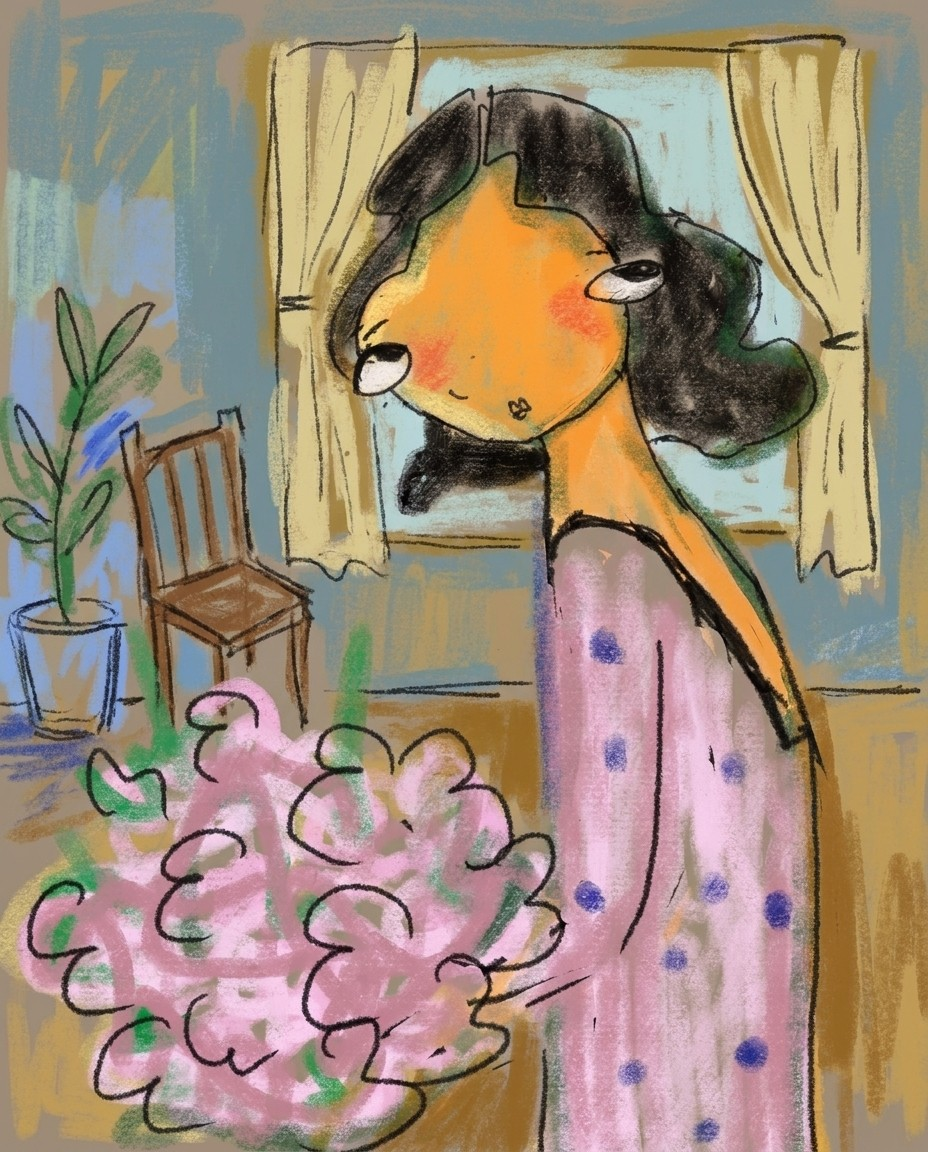
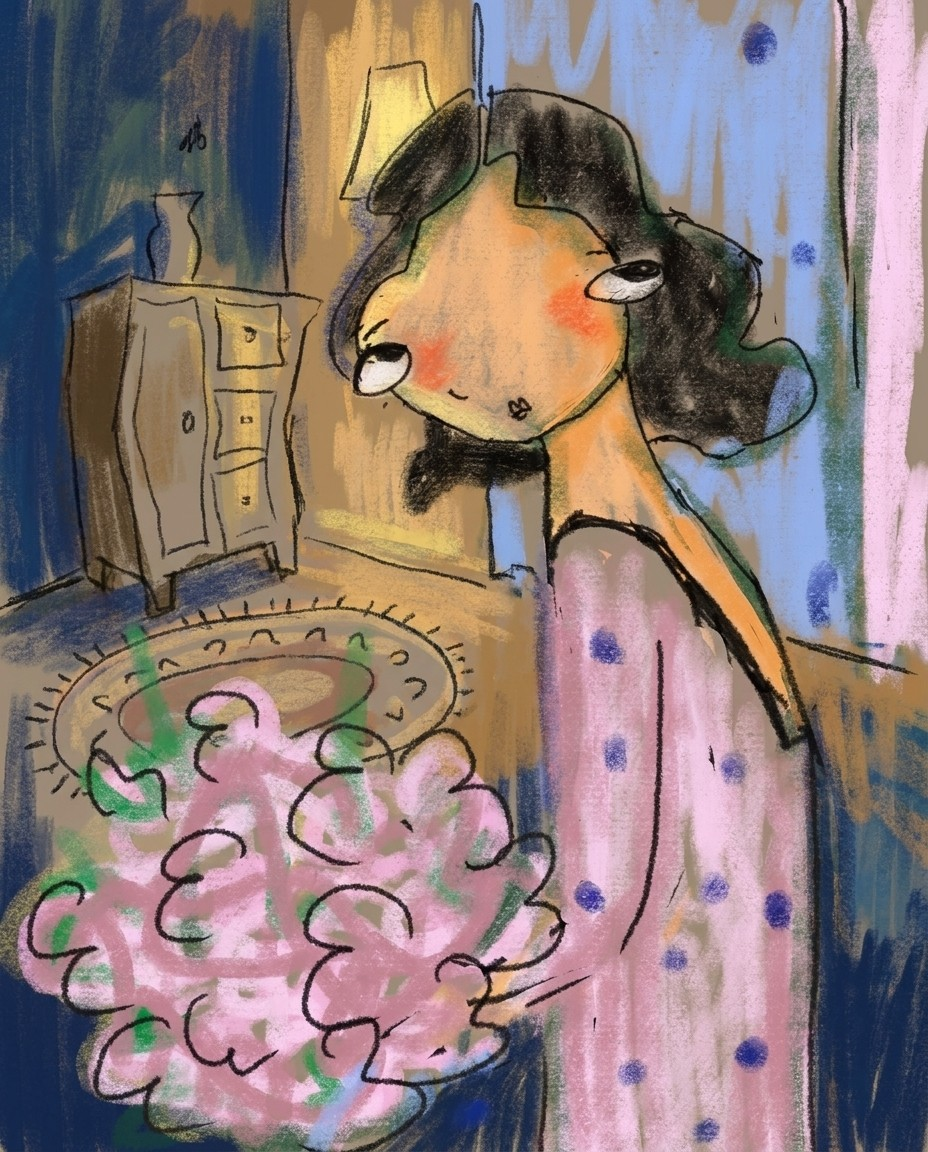
feat(prompt): lock Background v4 — atmospheric depth + her-shape language
Background was drifting to perspective-correct windows / furniture with
painterly surface applied as a texture overlay. v4 forbids that pattern
explicitly and demands the construction stage itself come from her hand.

Body changes:
- "Stay in her universe" anchor (interior stays interior, outdoor stays
  outdoor) so the new setting is the same KIND of place she paints.
- 80s/90s painted-animation atmospheric reference (Belle's village,
  Howl's bedroom, Lion King savanna) for FEELING — borrow the mood
  depth, not the cel-animation finish.
- Explicit shape-language anchoring: a window in her work isn't a
  perspective-correct rectangle, it's a wobbly quadrilateral. The
  geometry is hers, the construction is hers, not just the surface.
- Anti-construct-then-texture paragraph forbids the failure mode
  directly: "If you find yourself drawing a 'correct' window, simplify
  it, distort it, flatten it, redraw it with her hand's wobble."

In lockstep:
- scripts/check-prompts.ts canary: opening anchor → "...within HER
  existing world."; contains-anchor → "wobbly, simplified, gestural"
  (replaces "AI-illustration finish" which v4 doesn't carry).
- AGENTS.md §4 Background row + dominator listing + check-prompts canary
  documentation all updated to v4.
- InputBar subline: "different setting, in her hand" →
  "deeper setting, her shapes".
- docs/PROMPT_LESSONS.md adds lesson #6 on construct-then-texture: when
  an operation needs her style to drive shape language (not just
[…]

diff --git a/lib/gemini/imagePrompts.ts b/lib/gemini/imagePrompts.ts
@@ -179,46 +179,58 @@ The output should look like a finished version of the input painting.`;
 // ---------------------------------------------------------------------------
 
 /**
- * Background prompt body — **v3 (LOCKED)**. Validated by Jeff in Krea against
+ * Background prompt body — **v4 (LOCKED)**. Validated by Jeff in Krea against
  * multiple Zuzi WIPs.
  *
- * Operation: replace the existing background with a different setting,
- * painted in her hand. NOT "make a beautiful background" (which Pro defaults
- * to rendering as a generic AI-illustration) — instead, "her hand made this,
- * in this same session, with the same brushes." The anti-language ("Do NOT
- * use AI-illustration finish") is required: Pro's default is exactly the
- * thing we're forbidding.
+ * Operation: replace the existing background with a different setting **in her
+ * universe** (same kind of place — interior stays interior, outdoor stays
+ * outdoor), with greater atmospheric depth (channeling 1980s/90s painted-
+ * animation backgrounds for FEELING only, not finish), rendered entirely in
+ * her style — including the SHAPE LANGUAGE of background elements. Pro's
+ * default for "paint in her style" is to construct geometry with realistic
+ * perspective and apply painterly surface as a texture overlay; v4 forbids
+ * that explicitly and forces the geometry itself to be hers from
+ * construction. See `docs/PROMPT_LESSONS.md` lesson #6.
  *
  * **Iteration lineage:**
  *   - v1 (templated, original): "as beautiful as possible" framing — drifted
  *     to rendered AI-style backgrounds, generic illustration finish.
  *   - v2 (Krea iteration): added style anchoring + her-hand language +
  *     "she would have chosen" judgment imitation.
- *   - **v3 (locked)**: refined v2 with concrete examples (interior figure →
- *     a different interior; still life → a different surface or setting).
- *     Validated in Krea against multiple WIPs.
- *   - v4 (rejected): added abstract-background option; biased Pro toward
- *     abstract by giving it as a choice.
- *   - v5 (rejected): tried three options on a spectrum; still produced
- *     unbalanced output.
+ *   - v3 (previously locked): refined v2 with concrete examples (interior
+ *     figure → a different interior; still life → a different surface or
+ *     setting). Validated in Krea. Production-served until v4.
+ *   - **v4 (locked)**: added 80s/90s animation atmospheric reference for
+ *     mood depth + explicit shape-language anchoring (anti-perspective,
+ *     anti-texture-overlay) — Jeff iterated extensively in Krea, Pro was
+ *     constructing perfect-perspective geometry with painterly surface
+ *     overlay; v4 forces the geometry itself to be in her hand from the
+ *     construction stage. Replaces v3.
  *
- * **Lesson:** Pro handles narrow operations better than broad ones. When a
- * preset has multiple legitimate interpretations, pick the one that lands
- * more reliably and don't try to support both as choices in the prompt. See
+ * **Lesson:** painterly surface alone isn't enough — when an operation
+ * requires the artist's style to drive shape language (not just surface
+ * treatment), the prompt must explicitly forbid the construct-then-texture
+ * pattern and anchor the construction stage to her hand. See lesson #6 in
  * `docs/PROMPT_LESSONS.md`.
  *
  * Multi-paragraph body; the aspect-ratio sentence is appended as its own
  * trailing paragraph at render time per AGENTS.md §3.
  */
-const BACKGROUND_PROMPT_BODY = `This painting needs a different background environment. Replace the existing background with a new one — different setting, different surroundings — but paint it in the same style the artist is already using. Look at her brushwork, her marks, her flatness or dimensionality, her color application, her level of finish — and paint the new background using exactly those same qualities. The new background must look like SHE painted it, in this same session, with the same brushes.
+const BACKGROUND_PROMPT_BODY = `This painting needs a different background environment within HER existing world. Stay in her universe — her subjects, her settings, her mood, the kinds of places her paintings depict. The new background should be the same KIND of setting her paintings already live in. If her painting shows a woman in a domestic interior, the new background is still a domestic interior. If her painting is set outdoors or in a quiet room, the new setting stays in that thematic world.
 
-Do NOT introduce a rendered, smooth, photographic, or generically "beautiful" background. Do NOT use AI-illustration finish. The background should feel like her hand made it — gestural where she's gestural, flat where she's flat, sketchy where she's sketchy, painterly where she's painterly. Match her color palette family. Match her level of finish exactly.
+What changes is the visual richness and atmospheric depth of the background. Channel the painted-background quality of 1980s and 1990s hand-animated films — the way Belle's village interior feels warmly lit and atmospherically deep, the way Howl's bedroom feels rich with painted color and layered tone, the way the Lion King savanna feels saturated and dimensional. That feeling of mood and atmospheric color depth in the background, applied to her existing world.
 
-Pick a background environment she would have chosen — something that fits the mood and subject of her painting. If she's painted an interior figure, the new background might be a different interior. If she's painted a still life, a different surface or setting. Make a choice that feels in character with the rest of the work.
+But render everything entirely in HER style. Her exact brushwork, her exact marks, her exact level of finish, her exact line work, her exact surface treatment, her exact gestural quality. Do not borrow line work, finish quality, or rendering style from animation. Borrow only the FEELING of mood-rich painted backgrounds — the atmospheric depth, the considered warm/cool color play, the way the background carries emotional weight. Translate that feeling into her hand.
 
-The figure, subject, composition, framing, palette family, lighting direction, and brushwork on the foreground all stay IDENTICAL to the input. Only the background environment changes — and it changes into something painted in her hand, not Pro's hand.
+The SHAPES THEMSELVES of background elements must also come from her hand, not from realistic construction. She does not draw furniture, architecture, or objects using accurate perspective, correct proportions, or realistic geometry. Her shapes are simplified, gestural, slightly wonky, often flattened or distorted, with perspective that's broken, ignored, or treated loosely. A window in her work isn't a perspective-correct rectangle — it's a rough quadrilateral with wobbling lines. A table edge isn't a clean receding plane — it's a tilted shape drawn with the same exploratory line work as her figures. Architectural elements have approximate angles, not measured ones. Furniture has cartooned proportions, not realistic ones.
 
-The output should look like the input painting, repainted by the same artist with the same brushes in the same session, with a different choice of background. Same hand, same voice, different setting.`;
+Do NOT construct background elements using accurate linear perspective and then apply painterly surface as a texture overlay. The shapes underneath must already be hers — wobbly, simplified, gestural — before any surface treatment is applied. If you find yourself drawing a "correct" window or "correct" piece of furniture, simplify it, distort it, flatten it, redraw it with her hand's wobble. The geometry is hers. The construction is hers. Not just the surface.
+
+The foreground figure, subject, composition, framing, palette family, lighting direction, and brushwork all stay IDENTICAL to the input. Only the background environment changes — same kind of place, but with deeper atmospheric mood, painted in her hand, with shapes drawn the way her hand draws shapes.
+
+The result should look like ONE coherent painting by ONE artist — her — where the background now has more atmospheric weight and painted richness, while staying in her painterly register and her world.
+
+Do NOT change the type of setting (interior stays interior, outdoor stays outdoor). Do NOT use cel-animation finish or clean rendering. Do NOT bifurcate her foreground style from the background style. Do NOT introduce visual qualities (clean lines, smooth gradients, polished surfaces) that aren't already in her work. Do NOT use realistic perspective or accurate proportions for background elements.`;
 
 // ---------------------------------------------------------------------------
 // Templated path — for Lighting solo and Color+Lighting combos.

diff --git a/scripts/check-prompts.ts b/scripts/check-prompts.ts
@@ -16,7 +16,9 @@
  *        - v0 freeform: "Reimagine it with new colors"
  *        - Ambiance v8: opening "Continue this painting in the same style…"
  *          + the load-bearing "HER style" anchor
- *        - Background v3: opening + the anti-AI-illustration language
+ *        - Background v4: opening "This painting needs a different
+ *          background environment within HER existing world." + the
+ *          shape-language anchor "wobbly, simplified, gestural"
  *        - Color v1: cel-animation opener "Recolor it using the palette
  *          sensibility of 1980s and 1990s…" + anti-AI-illustration anchor
  *   4. Dominator routing — Ambiance, Background, and Color (now also a
@@ -106,11 +108,11 @@ if (!ambiance.includes("HER style")) {
 }
 
 const background = buildPrompt({ presets: ["background"], aspectRatio: "4:5" });
-if (!background.startsWith("This painting needs a different background environment.")) {
-  fail("[background]", "Background v3 prompt regressed (opening sentence canary missing)");
+if (!background.startsWith("This painting needs a different background environment within HER existing world.")) {
+  fail("[background]", "Background v4 prompt regressed (opening sentence canary missing)");
 }
-if (!background.includes("AI-illustration finish")) {
-  fail("[background]", "Background v3 lost anti-'AI-illustration finish' language");
+if (!background.includes("wobbly, simplified, gestural")) {
+  fail("[background]", "Background v4 lost shape-language anchor ('wobbly, simplified, gestural')");
 }
 
 const colorSolo = buildPrompt({ presets: ["color"], aspectRatio: "4:5" });

diff --git a/components/krea/InputBar.tsx b/components/krea/InputBar.tsx
@@ -41,13 +41,14 @@ const PRESET_LABEL: Record<Preset, string> = {
 /** Optional one-line subline rendered under the checkbox label. Ambiance and
  *  Background both have sublines because their operations don't read
  *  literally from the label — Ambiance is "continue in her voice" (not just
- *  add atmosphere), and Background is "different setting in HER hand" (not
- *  Pro's default rendered AI illustration). Color and Lighting read
- *  literally so they get no subline. Phrasing tracks the v8/v3 prompt
+ *  add atmosphere), and Background is now "deeper setting in her hand,
+ *  including her shape language" (not Pro's default perspective-correct
+ *  geometry with painterly surface overlay). Color and Lighting read
+ *  literally so they get no subline. Phrasing tracks the v8/v4 prompt
  *  framings in `lib/gemini/imagePrompts.ts`. */
 const PRESET_SUBLINE: Partial<Record<Preset, string>> = {
   ambiance: "complete it in her voice",
-  background: "different setting, in her hand",
+  background: "deeper setting, her shapes",
 };
 
 function PillToggle<T extends string>({

diff --git a/samples/day-0/README.md b/samples/day-0/README.md
@@ -23,20 +23,24 @@ so the canonical default-prompt baseline stays at the unsuffixed path.
 |---|---|---|---|---|
 | `untitled_artwork_3/` | Untitled_Artwork 3 | Pro · 1K · 3 | **Freeform** (empty presets) — the validated v0 "make this beautiful" prompt: vary colors, preserve everything else | Canonical default-prompt baseline. Matches the smoke-validated default that Zuzi originally approved. |
 | `untitled_artwork_3-ambiance/` | Untitled_Artwork 3 | Pro · 1K · 3 | **Ambiance v8 (locked)** — see `lib/gemini/imagePrompts.ts AMBIANCE_PROMPT_BODY`. Style-continuation framing: "continue the painting in her voice; add elements in her style." | Validated by Jeff in Krea against multiple Zuzi WIPs before being ported. Outputs visibly add painterly content (small vase in negative space, more developed bouquet) in the source's flat-painterly style, while preserving palette and composition. |
-| `untitled_artwork_3-background/` | Untitled_Artwork 3 | Pro · 1K · 3 | **Background v3 (locked)** — see `lib/gemini/imagePrompts.ts BACKGROUND_PROMPT_BODY`. Different-setting-in-her-hand framing with anti-language against AI-illustration finish. | Validated by Jeff in Krea. Outputs replace the source's pink-streak/blue-dot background with a different interior setting (window + chair, curtains + plant, etc.), painted in the source's loose painterly hand — NOT a generic AI-rendered background. Foreground (figure, dress, bouquet) preserved; palette family preserved; lighting direction preserved. |
+| `untitled_artwork_3-background/` | Untitled_Artwork 3 | Pro · 1K · 3 | **Background v4 (locked)** — see `lib/gemini/imagePrompts.ts BACKGROUND_PROMPT_BODY`. Stay-in-her-universe framing + 80s/90s painted-animation atmospheric reference for mood depth + explicit shape-language anchoring (geometry must come from her hand from the construction stage; anti-perspective, anti-texture-overlay). | Canonical Background baseline, replaces v3. Validated by Jeff in Krea. Outputs replace the source's pink-streak/blue-dot background with a deeper-mood interior setting that stays in her universe (same kind of place — domestic interior); the new architectural / furniture shapes are wobbly + simplified + gestural rather than perspective-correct, and the painterly surface treatment matches her hand. Foreground (figure, dress, bouquet) preserved; palette family preserved; lighting direction preserved. |
+| `untitled_artwork_3-background-v3/` | Untitled_Artwork 3 | Pro · 1K · 3 | **Background v3 (archived, prior lock)** — different-setting-in-her-hand framing with anti-language against AI-illustration finish, but no shape-language anchoring. | Historical reference. Compare against v4 to see what the shape-language anchoring (lesson #6) bought us: v3 outputs sometimes drew perspective-correct windows / furniture and applied painterly surface as a texture overlay — visible "AI illustration with painterly filter" feel — which v4 fixes by demanding the geometry itself come from her hand. |
 | `untitled_artwork_3-color/` | Untitled_Artwork 3 | Pro · 1K · 3 | **Color v1 (locked)** — see `lib/gemini/imagePrompts.ts COLOR_PROMPT_BODY`. Recolor with a 1980s/90s hand-painted cel-animation palette sensibility (Disney renaissance, Don Bluth, Saturday morning cartoons, Studio Ghibli 80s/90s). | Locked from Jeff's spec; awaits Krea-on-Zuzi-WIPs validation. Three tiles produce distinctly cel-feel palettes (DuckTales-ish orange/pink/teal, Don Bluth–ish deep blue + magenta, Disney-renaissance lavender + magenta) while preserving the figure's pose + brushwork + composition + lighting + level of finish. No AI-illustration finish drift. |
 
 ## Prompt version history
 
 The Ambiance prompt went through 8 iterations before locking; the Background
-prompt went through 5 (3 viable + 2 rejected); the Color prompt is at v1
-(opinionated era-specific recolor; replaces the prior "frozen byte-identical
-templated output" snapshot that was a generic "make colors beautiful"). Per-
-prompt lineage and the load-bearing-redundancy + anti-language + judgment-
-imitation lessons are documented in the comment blocks above each
-`*_PROMPT_BODY` constant in `lib/gemini/imagePrompts.ts`. The cross-cutting
-rules that came out of those rounds live in **`docs/PROMPT_LESSONS.md`** —
-read that before iterating any preset prompt.
+prompt is now at v4 (v1 templated → v2/v3 her-hand framing → v4 adds 80s/90s
+animation atmospheric reference + explicit shape-language anchoring; v3 lives
+on at `untitled_artwork_3-background-v3/` as a historical reference); the
+Color prompt is at v1 (opinionated era-specific recolor; replaces the prior
+"frozen byte-identical templated output" snapshot that was a generic "make
+colors beautiful"). Per-prompt lineage and the load-bearing-redundancy +
+anti-language + judgment-imitation + construct-not-just-surface lessons are
+documented in the comment blocks above each `*_PROMPT_BODY` constant in
+`lib/gemini/imagePrompts.ts`. The cross-cutting rules that came out of those
+rounds live in **`docs/PROMPT_LESSONS.md`** — read that before iterating any
+preset prompt.
 
 **Do not deduplicate locked prompts.** The redundant style-anchoring language
 is load-bearing.

diff --git a/AGENTS.md b/AGENTS.md
@@ -73,7 +73,7 @@ plan's reference docs first.
 | **Color** | Recolors with a 1980s/90s hand-painted cel-animation palette sensibility (Disney renaissance, Don Bluth, Saturday morning cartoons, Ghibli 80s/90s). Saturated but harmonious, gouache-feel, NOT digital/printed/AI-illustration finish | Brushwork, marks, drawing style, composition, framing, subject, level of finish, value structure, lighting direction, mood — only color values shift |
 | **Ambiance** | Continues the painting in her voice — extends her own brushwork, marks, level of finish into the canvas; adds elements (a small object, a mark in negative space, atmospheric depth) painted in HER style | Existing developed passages (don't repaint), composition, palette family, subject identity, brushwork voice |
 | **Lighting** | Mood, shadows, light direction | Color palette, composition, brushwork, subject, background, level of finish |
-| **Background** | Replaces the background with a different setting, painted in her hand (her style, her marks, her finish — NOT a generic AI-rendered background) | Foreground (figure, subject), composition, framing, palette family, lighting direction, brushwork on the subject, level of finish |
+| **Background** | The background environment is replaced with a different setting in her universe (same kind of place), with greater atmospheric depth and painted richness inspired by 80s/90s painted-animation backgrounds, rendered entirely in her style — including the shape language of background elements (no realistic perspective, no accurate proportions) | Subject, composition, framing, palette family, lighting direction, brushwork on the foreground, level of finish on the foreground, painterly register, her world/universe of subjects |
 
 > **Composition is gone.** Composition (reframing/repositioning the subject) was tried,
 > didn't match the user's actual workflow, and was removed. Ambiance (continuing the
@@ -92,7 +92,11 @@ The four presets split into two architectural categories in `imagePrompts.ts`:
     edits, she runs two passes (e.g. Background to swap setting → favorite a result
     → Color on the favorite to recolor).
       - **Ambiance v8** — `AMBIANCE_PROMPT_BODY` (locked, Krea-validated).
-      - **Background v3** — `BACKGROUND_PROMPT_BODY` (locked, Krea-validated).
+      - **Background v4** — `BACKGROUND_PROMPT_BODY` (locked, Krea-validated).
+        Adds 80s/90s painted-animation atmospheric reference for mood depth +
+        explicit shape-language anchoring (geometry must come from her hand
+        from the construction stage, not painterly surface applied to
+        perspective-correct geometry — see lesson #6).
       - **Color v1** — `COLOR_PROMPT_BODY` (locked, awaiting Krea-on-Zuzi-WIPs
         validation; supplied verbatim by Jeff). Targets a 1980s/90s cel-animation
         palette sensibility — opinionated era-specific recolor, not the generic
@@ -562,8 +566,9 @@ a no-env shell (§8.5) will catch violations.
        - v0 freeform: `"Reimagine it with new colors"`
        - Ambiance v8: opens `"Continue this painting in the same style…"`
          and contains `"HER style"`
-       - Background v3: opens `"This painting needs a different background
-         environment."` and contains `"AI-illustration finish"`
+       - Background v4: opens `"This painting needs a different background
+         environment within HER existing world."` and contains the shape-
+         language anchor `"wobbly, simplified, gestural"`
        - Color frozen body: `"Reimagine the colors and palette"`
   3. Verifies dominator routing — `['color','ambiance']` → Ambiance,
      `['lighting','background']` → Background, all-four → Ambiance.

diff --git a/docs/PROMPT_LESSONS.md b/docs/PROMPT_LESSONS.md
@@ -116,6 +116,40 @@ sources, even if it reads worse on the page. Pin the iteration lineage
 in a comment so future maintainers know why the prompt looks the way it
 looks.
 
+## 6. Painterly surface alone isn't enough — the geometry must be hers from construction
+
+Pro's default behavior when prompted with "paint in her style" is to construct
+geometry using realistic-perspective training defaults and THEN apply painterly
+surface as a texture overlay. The result has correct linear perspective, accurate
+proportions, and clean architectural angles underneath painterly brushwork — which
+reads as "AI illustration with a painterly filter," not as her actual hand.
+
+To get her actual shape language, the prompt must explicitly forbid the construct-
+then-texture pattern and require the geometry itself to come from her hand from
+the start. The construction is hers. The geometry is hers. The surface treatment
+follows.
+
+Example fix from Background v4:
+
+  > "The shapes underneath must already be hers — wobbly, simplified, gestural —
+  > before any surface treatment is applied. If you find yourself drawing a
+  > 'correct' window or 'correct' piece of furniture, simplify it, distort it,
+  > flatten it, redraw it with her hand's wobble. The geometry is hers. The
+  > construction is hers. Not just the surface."
+
+This lesson is distinct from #1 (anti-AI-illustration) and #4 (redundant style
+anchoring). #1 forbids the wrong AESTHETIC; #4 demands repeated style anchoring at
+the SURFACE level. #6 is about the CONSTRUCTION layer — even with anti-language
+and redundant style anchors, Pro will draw the underlying shape with realistic
+geometry unless the prompt also forbids that explicitly. This pattern likely
+applies to other operations beyond Background where her style needs to drive
+construction (the underlying shape language), not just surface treatment.
+
+**Rule:** when an operation requires the artist's style to drive shape language,
+the prompt must explicitly forbid the construct-then-texture pattern and anchor
+the construction stage to her hand. Anti-perspective + anti-accurate-proportions
+language belongs in the same paragraph as the her-shape-language demand.
+
 ## How to use this doc
 
 When iterating a preset prompt:
